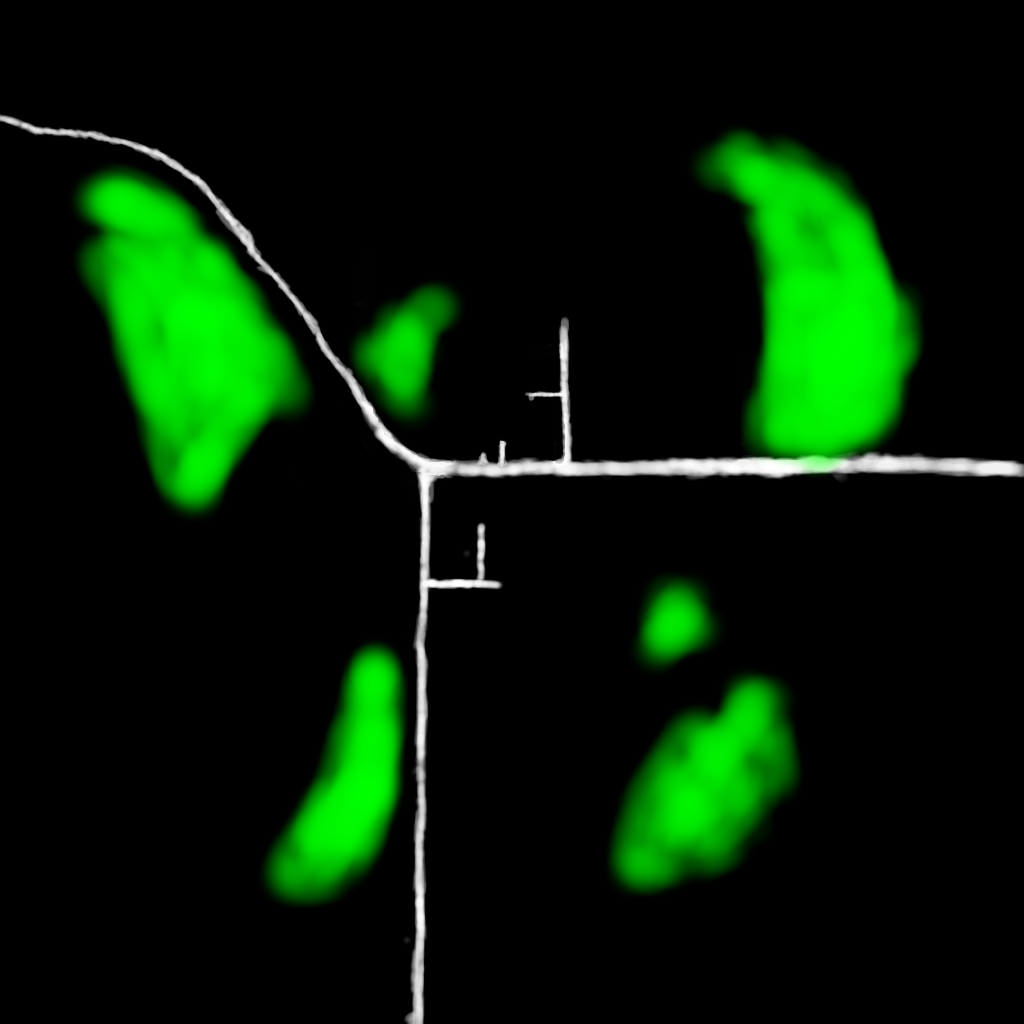
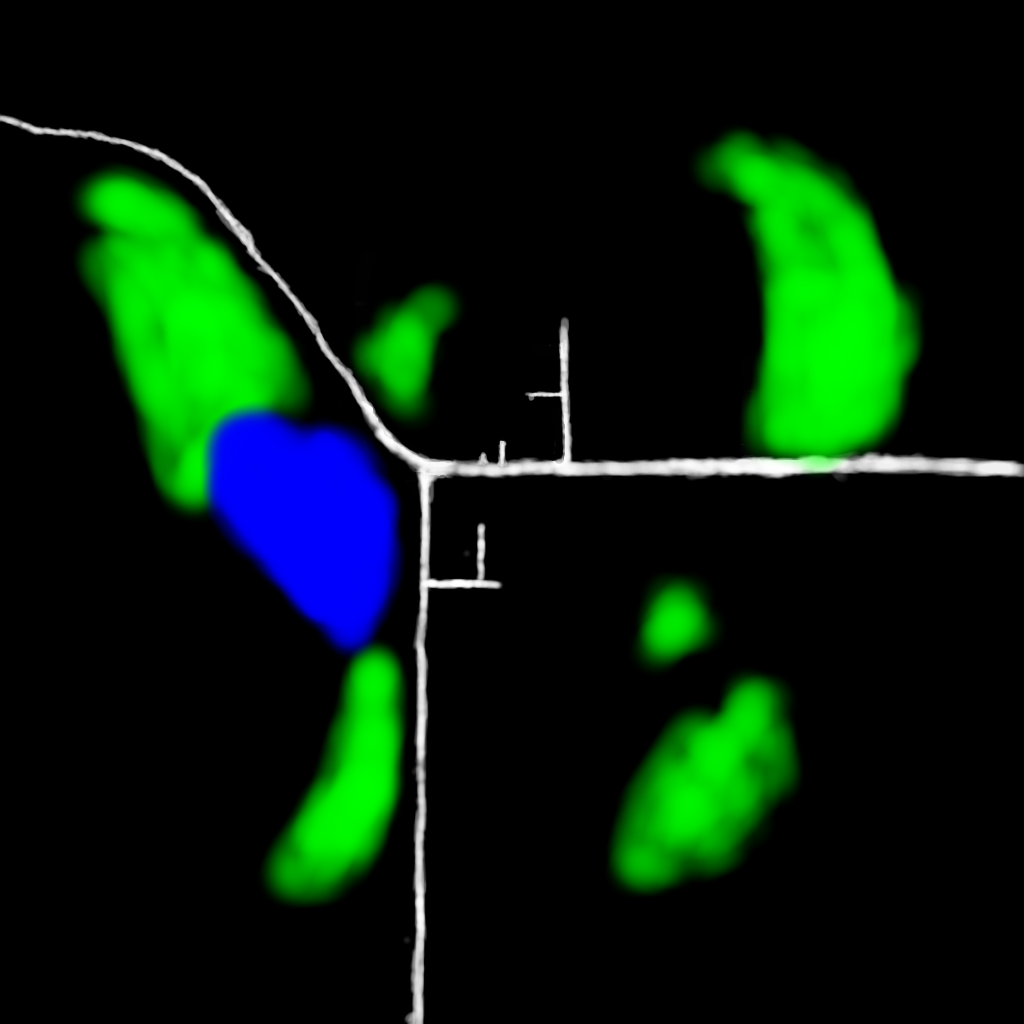
Blendmap with water/sand in the blue channel

Changed region(s): [[0.1875, 0.375, 0.4062, 0.6562]]

diff --git a/Engine Test/Test Game/Classes/TGWorld.cpp b/Engine Test/Test Game/Classes/TGWorld.cpp
@@ -1171,6 +1171,10 @@ namespace TG
 			
 			int32 value  = dualPhaseLCG.RandomInt32Range(1, 100);
 			float factor = _blendmap[IndexForPosition(pos)].g;
+			float water  = _blendmap[IndexForPosition(pos)].b;
+			
+			if(water > 0.05f)
+				continue;
 			
 			value = roundf(factor * 40) + value;
 			
